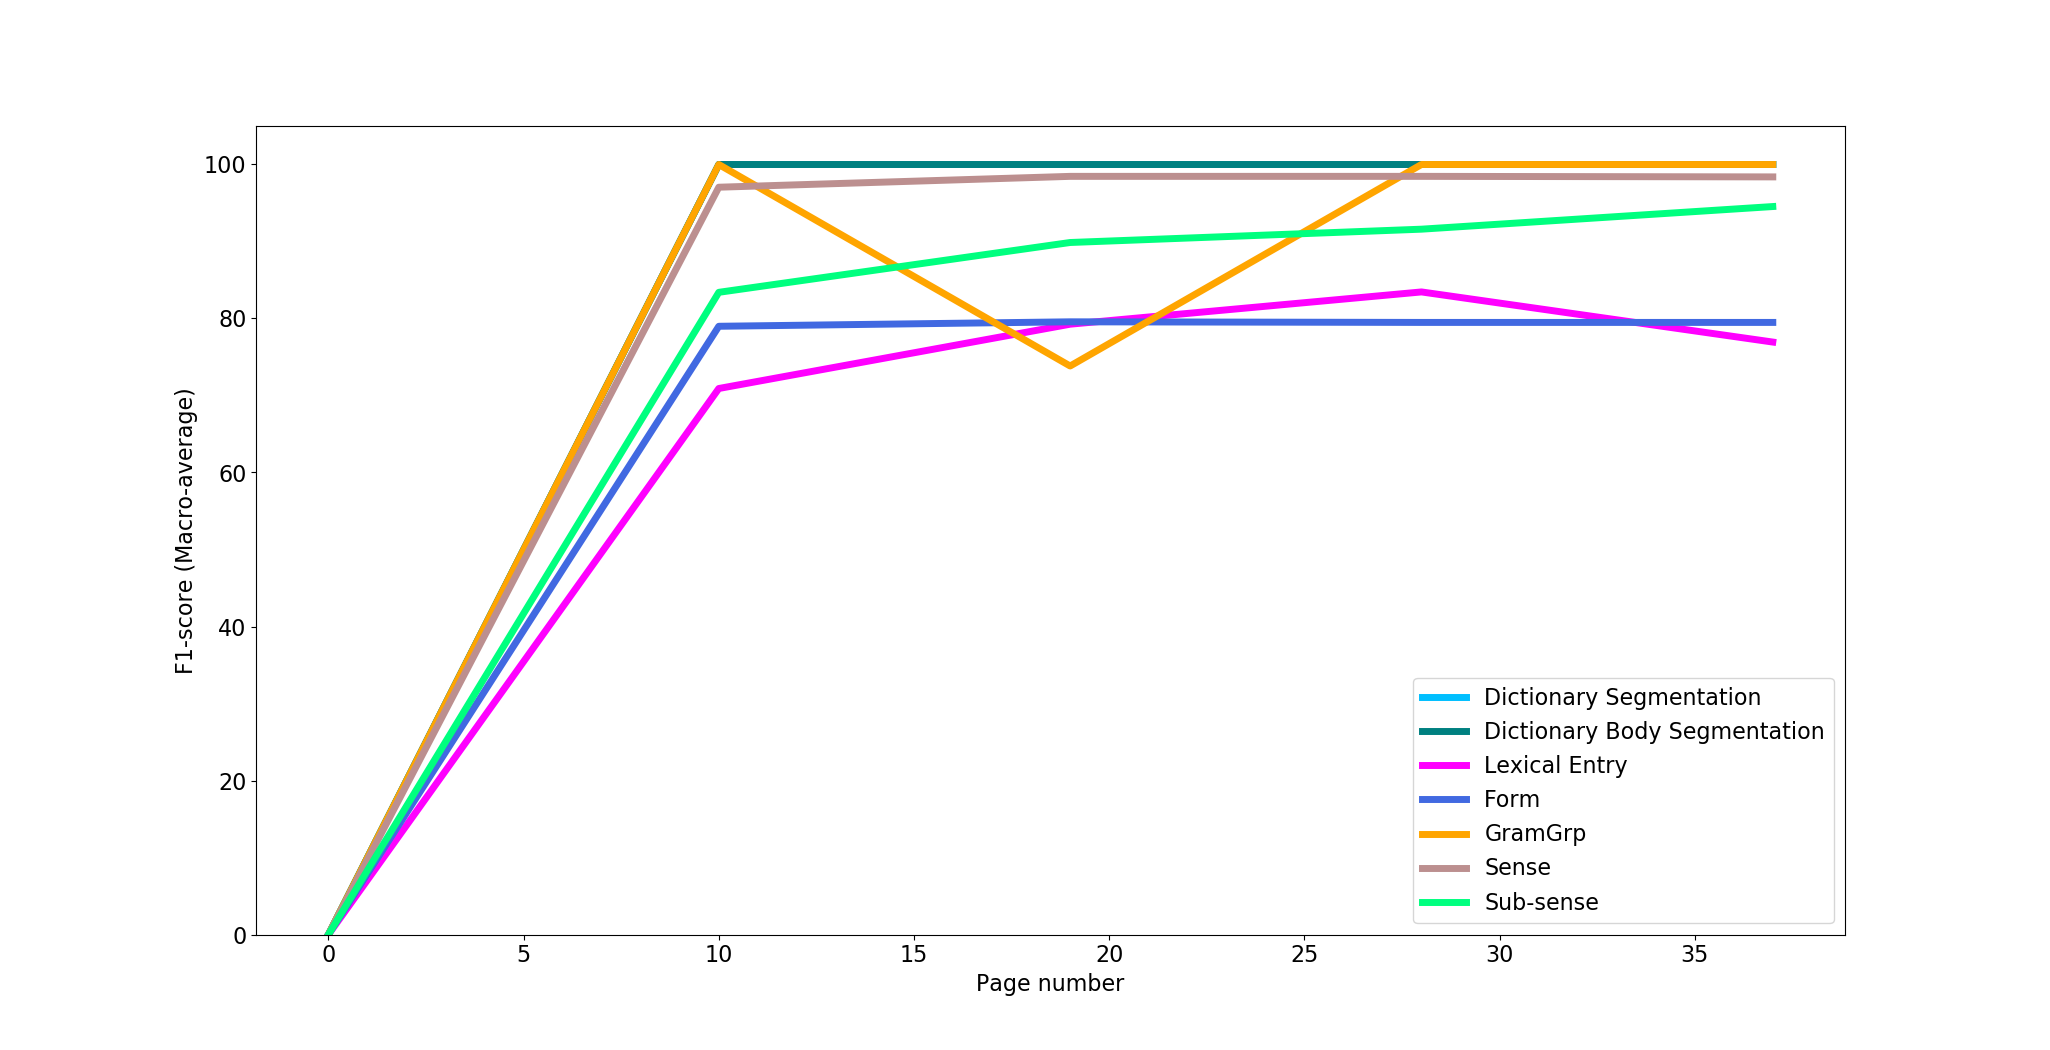
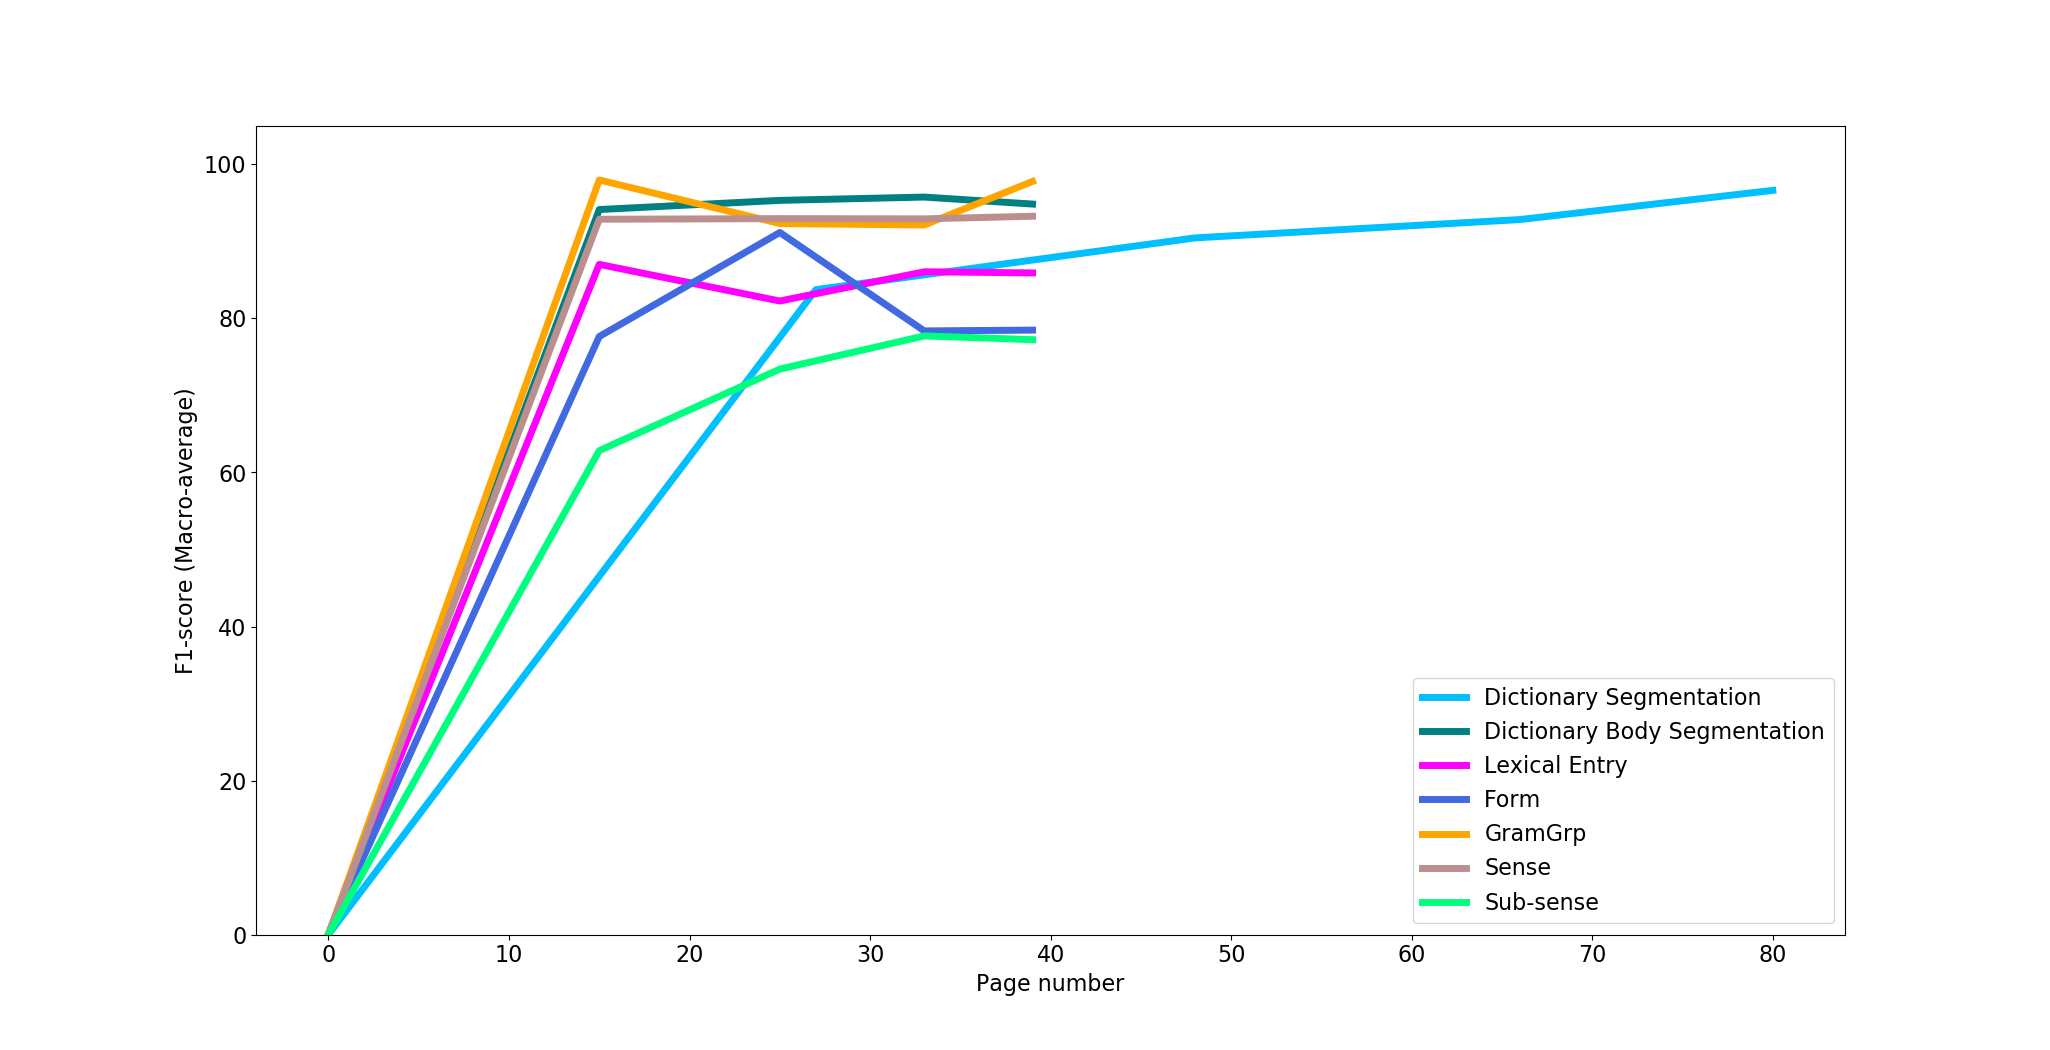
works for 3 out of 5 dictionaries

Changed region(s): [[0.1561, 0.1524, 0.8741, 0.8838], [0.8429, 0.8838, 0.8741, 0.9143]]

diff --git a/read_learning_curve_per_sample_ask_verify.py b/read_learning_curve_per_sample_ask_verify.py
@@ -6,14 +6,13 @@ This is a temporary script file.
 """
 
 import numpy as np
-import platform
-import os
 from matplotlib import pyplot as plt
-
+import platform
 from pathlib import Path
 
 arrDictModels= ["dictionary-segmentation", "dictionary-body-segmentation", "lexical-entry", "form", "gramGrp", "sense", "sub-sense"]
 
+#OB: assigning a path (of type path) to each of the variables.
 dict_folderEEBD = Path("grobid-dictionaries_data/EEBD/dataset/")
 dict_folderMxSp = Path("grobid-dictionaries_data/MxSp/dataset/")
 dict_folderFangFr = Path("grobid-dictionaries_data/FangFr/dataset/")
@@ -26,7 +25,33 @@ dict_folderDLF = Path("grobid-dictionaries_data/DLF/dataset/")
 
 data_folderEEBD = Path("grobid-dictionaries_data/EEBD/evalWAPITI/eebd/")
 
+#OB: depending on strings existing in model_name the ff variable will take the next string in order to
+# get to the feature (completing the path).
+
+def ask():
+    print("write the path")
+    urpath = input()
+    dict_path1 = str(urpath).split('\\')
+    print(dict_path1)
+    print(type(dict_path1))
+    index = dict_path1.index("grobid-dictionaries_data")
+    dict_name1 = dict_path1[index + 1]
+    for i in range(index):
+        index = dict_path1.index("grobid-dictionaries_data")
+        # print(index)
+        dict_path1.remove(dict_path1[index - 1])
+
+
+    dict_root1 = Path(get_root_from_table(dict_path1))
+
+    #print("The path ", dict_path1)
+    #print("The root ", dict_root1)
+    #print("The name", dict_name1)
+    return dict_path1, dict_root1, dict_name1
+
+
 def get_feature_for_model(model_name, dictionary, ff):
+    dictionary = dictionary[2]
     if model_name == "dictionary-segmentation":
         ff="Bigram"
 
@@ -57,52 +82,20 @@ def get_feature_for_model(model_name, dictionary, ff):
     if model_name == "sub-sense":
         ff="Bigram"
 
-
+#ff = "Bigram" if [(model_name = sub-sense, form, dictionary-segmentation)
+    # or (model_name=lexical_entry and dictionary= DLF or Eebd) or
+#ff = "Engineered if model_name = dictionary-body-segmentation
+#ff = Unigram if model_name = gramGrp
     return ff
 
-
-
-def getarraysfromdict(dict_path, dictModel,dict_name,kk):
-    sizearray=[0]
-    scorearray=[0]
-    dict_root = Path(get_root_from_table(dict_path))
-    for i in range(1,5):
-        filepath = dict_root/ "dataset" / dictModel/ "corpus/batches"/str(i)/"size.txt"
-        fileName="Feature"+kk+"DataLevel"+str(i)+".txt"
-        filepathData = dict_root/ "evalWAPITI" / dict_name  /dictModel/ str(fileName)
-        print ("sizepath ", filepath)
-        print ("datapath ", filepathData)
-        #fill in the batche size array incrementally
-        with open(filepath) as fp:
-            line = fp.readline()
-            # print (line)
-            if len(sizearray)==0:
-                sizearray.append(int(str(line).split(' ')[0]))
-                print ('size', sizearray)
-            else:
-                previous=sizearray[i - 1]
-                # print ('index',i-1)
-                sizearray.append(int(previous) + int(str(line).split(' ')[0]))
-                current=sizearray[i ]
-                print ('size',sizearray)
-
-        #fill in the fscore of macroaverage
-        with open(filepathData) as fp:
-            line = fp.readline()
-            cnt = 1
-            while line:
-                line=" ".join(line.split())
-                if "(macro" in str(line).split(' '):
-                    splitLine=str(line).split(' ')
-                    # print (splitLine)
-                    scorearray.append(splitLine[len(splitLine) - 2])
-                line = fp.readline()
-    return sizearray, scorearray;
+#OB: Replaced the function,
+#OB: takes an array and returns a string.
+#OB: The path,or root, initialized as a null string, is being constituted after
+# each iteration. It will later (function: getarraysfromdict) constitute a part of the path leading to the batch
 
 def get_root_from_table(table):
     root_path=""
     for element in table:
-        print('hfi', element)
         if element == "evalWAPITI":
             break
         else:
@@ -111,7 +104,63 @@ def get_root_from_table(table):
 
     return root_path
 
+# OB: Replaced function above this one.
+def getarraysfromdict(dict_path, dictModel,dict_name,kk):
+    sizearray=[0]
+    scorearray=[0]
+    #print("Please enter the Path of the dictionary you want to evaluate")
+    #urpath = input()
+
+
+
+    #if platform.system() == 'Windows':
+     #   dict_path1= str(urpath).split('\\')
+    #else:
+     #   dict_path1= str(urpath).split('/')
+
+
+    #OB: changing the type of an array of strings into pathlib.WindowsPath
+    #OB: These are relative paths
+    dict_root = Path(get_root_from_table(dictionary[0]))
+    print("dict path ", dictionary[0])
+    print("dict root ", dictionary[1])
+
+    print(get_root_from_table(dictionary[0]),"+++++++++")
+    #OB: C'est une variable clé 1 !
+    # OB: Alors dict_path doit être retirée de cette boucle et doit être eingegeben as input().
+    # OB: dictpath probably won't be needed !
+    for i in range(1,5):
+        filepath = dictionary[1]/ "dataset" / dictModel/ "corpus/batches"/str(i)/"size.txt"
+        fileName="Feature"+kk+"DataLevel"+str(i)+".txt"
+        filepathData = dictionary[1]/ "evalWAPITI" / dictionary[2] /dictModel/ str(fileName)
+        print ("sizepath ", filepath)
+        print ("datapath ", filepathData)
+        #fill in the batche size array incrementally
+        #OB: well this [fp, open(), readline()] is new to me  !
+        with open(filepath) as fp:
+            line = fp.readline()
+            previous=sizearray[i - 1]
+            sizearray.append(int(previous) + int(str(line).split(' ')[0]))
+            print ('size',sizearray)
+            #OB: I guess this is a part from the output: the table where the batch sizes are recorded.
+            #OB: This is a modified function.
+        #fill in the fscore of macroaverage
+        with open(filepathData) as fp:
+            line = fp.readline()
+            #OB : the above defined variable does not seem to be used, why is it there?
+            while line:
+                line=" ".join(line.split())
+                if "(macro" in str(line).split(' '):
+                    splitLine = str(line).split(' ')
+                    # print (splitLine)
+                    scorearray.append(splitLine[len(splitLine) - 2])
+                line = fp.readline()
+    return sizearray, scorearray;
+
+
+
 fk="Engineered"
+#OB: These are void tables that will be filled with the batch sizes for each dictionary and the scorings that we want to detect.
 ds_size=[]
 ds_score=[]
 
@@ -133,83 +182,7 @@ sense_score=[]
 subsense_size=[]
 subsense_score=[]
 
-urpath = ''
-def ask_me(urpath):
-
-
-    data_folderEEBD = Path("grobid-dictionaries_data/EEBD/evalWAPITI/eebd/")
-    data_folderMxSp = Path("grobid-dictionaries_data/MxSp/evalWAPITI/Mix-Sp/")
-    data_folderFangFr = Path("grobid-dictionaries_data/FangFr/evalWAPITI/Fang-Fr/")
-    data_folderFrFang = Path("grobid-dictionaries_data/FrFang/evalWAPITI/FrFang/")
-    data_folderDLF = Path("grobid-dictionaries_data/DLF/evalWAPITI/DLF/")
-
-    subpaths = [data_folderEEBD, data_folderMxSp, data_folderFangFr, data_folderFrFang, data_folderDLF]
-
-    subpath = ["grobid-dictionaries_data\EEBD\dataset", "grobid-dictionaries_data\MxSp\dataset",
-                "grobid-dictionaries_data\FangFr\dataset", "grobid-dictionaries_data\FrFang\dataset",
-                "grobid-dictionaries_data\DLF\dataset"]
-
-    dict_dict = {
-        "EEBD"  : subpaths[0],
-        "MxSp"  : subpaths[1],
-        "FangFr": subpaths[2],
-        "FrFang": subpaths[3],
-        "DLF"   : subpaths[4]
-    }
-
-    dict_path = {
-        subpath[0]: subpaths[0],
-        subpath[1]: subpaths[1],
-        subpath[2]: subpaths[2],
-        subpath[3]: subpaths[3],
-        subpath[4]: subpaths[4]
-    }
-
-    eval_path = []
-
-   # print('Platform System', platform.system())
-    if platform.system() == 'Windows':
-        dictpath = str(urpath).split('\\')
-    else:
-        dictpath = str(urpath).split('/')
-        #print(dictpath)
-
-    if os.path.lexists(urpath) == True:
-        eval_path.append(dictpath)
-        #print(eval_path)
-        #print("+++++")
-    else:
-        print("The path you entered can not be found by the system. Please try again ! ")
-        #print(urpath, "-----")
-
-    n = len(dictpath)
-    for i in range(n, -1, -1):
-
-        if dictpath[n - 1] == "grobid-dictionaries_data":
-            #or dictpath[n - 2] == "grobid-dictionaries_data".strip("\\"):
-            print("You will find the evaluation of all dictionaries in the figures directory")
-            # That is an array = problem - you have to modify the type - case (a dictionary might be helpful)
-            eval_path = subpaths
-            print(eval_path, "<<<<<")
-            break
-
-        else:
-            if dictpath[i - 1] in dict_dict:
-                eval_path.append(dict_dict[dictpath[i - 1]]) #you have to use append hier ?
-                print(type(dict_dict[dictpath[i - 1]]))
-                print(eval_path)
-                break
-
-            else:
-                print("Write a whole Path to a dictionary !!!")
-                break
-    #print("Directory of the dictionary you want to evalute is :", eval_path )
-
-    return eval_path
-
-eval_path = ask_me(urpath)
-print(eval_path)
-
+#OB: So if the Output of a function is a plot we don't need return ?
 def get_curve_dictionary (arrModels,fk):
     data_folderEEBD = Path("grobid-dictionaries_data/EEBD/evalWAPITI/eebd/")
     data_folderMxSp = Path("grobid-dictionaries_data/MxSp/evalWAPITI/Mix-Sp/")
@@ -217,22 +190,16 @@ def get_curve_dictionary (arrModels,fk):
     data_folderFrFang = Path("grobid-dictionaries_data/FrFang/evalWAPITI/FrFang/")
     data_folderDLF = Path("grobid-dictionaries_data/DLF/evalWAPITI/DLF/")
 
+    arrPaths= [data_folderEEBD, data_folderMxSp, data_folderFangFr, data_folderFrFang, data_folderDLF]
 
-
-    #arrPaths= [data_folderEEBD, data_folderMxSp, data_folderFangFr, data_folderFrFang, data_folderDLF]
-
-    print("Please enter the Path of the dictionary you want to evaluate")
-    urpath = input()
-    arrPaths=ask_me(urpath)
     for dict_path in arrPaths:
-
-        print('Platform System', platform.system())
-        if platform.system() == 'Windows': 
+        if platform.system() == 'Windows':
             dictpatharray = str(dict_path).split('\\')
-        else: 
+        else:
             dictpatharray = str(dict_path).split('/')
-        dictname = dictpatharray[len(dictpatharray)-1]
-        print(dictname)
+
+        dictname = dictionary[2]
+        print("****",dictname,"****")
         for dictModel in arrModels:
             if dictModel== "dictionary-segmentation":
                 fk=get_feature_for_model(dictModel, dictname, fk)
@@ -260,6 +227,7 @@ def get_curve_dictionary (arrModels,fk):
 
 
 
+        #OB: plotting everything I guess
 
         fig = plt.figure()
         fig.set_size_inches(20.5, 10.5,44)
@@ -286,9 +254,10 @@ def get_curve_dictionary (arrModels,fk):
         fig.savefig(f'figures/Curve_{dictname}.png', dpi=100)
         plt.close(fig)
 
+dictionary=ask()
 get_curve_dictionary(arrDictModels,fk)
-
 
 # dictnamearray = str(data_folderEEBD).split('/')
 # print(dictnamearray)
 # print(get_root_from_table(dictnamearray))
+#save check

diff --git a/read_learning_curve_per_sample.py b/read_learning_curve_per_sample.py
@@ -51,6 +51,7 @@ def ask():
 
 
 def get_feature_for_model(model_name, dictionary, ff):
+    dictionary = dictionary[2]
     if model_name == "dictionary-segmentation":
         ff="Bigram"
 
@@ -197,8 +198,8 @@ def get_curve_dictionary (arrModels,fk):
         else:
             dictpatharray = str(dict_path).split('/')
 
-        dictname = dictpatharray[len(dictpatharray)-1]
-        print("****",dictionary[2],"****")
+        dictname = dictionary[2]
+        print("****",dictname,"****")
         for dictModel in arrModels:
             if dictModel== "dictionary-segmentation":
                 fk=get_feature_for_model(dictModel, dictname, fk)
